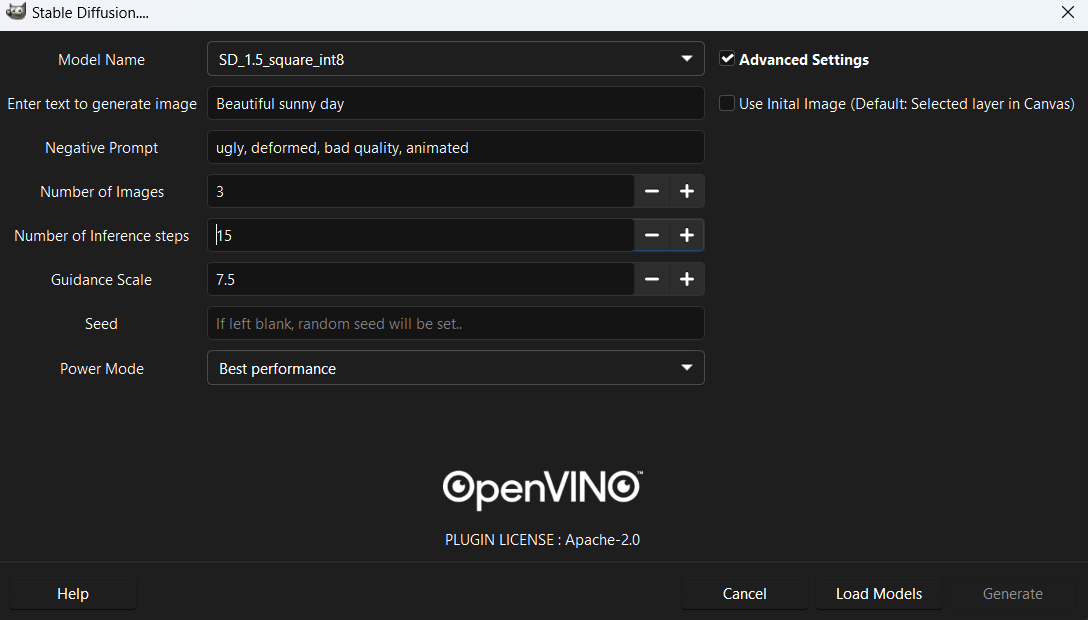
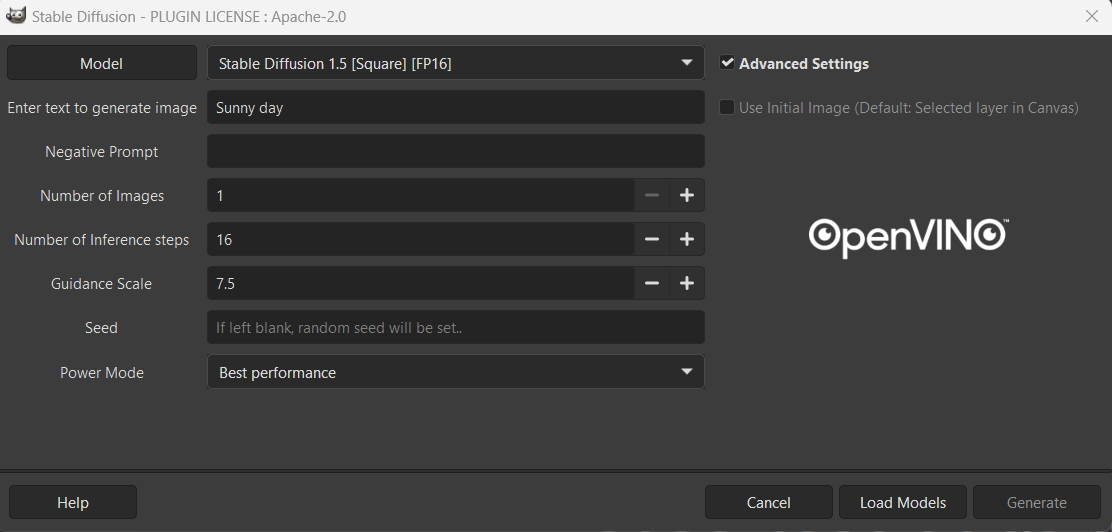
Updated the readme and windows doc

diff --git a/Docs/user_guide_for_windows_users.md b/Docs/user_guide_for_windows_users.md
@@ -118,19 +118,7 @@ Please download [gimp-2.99.16-setup.exe](https://download.gimp.org/gimp/v2.99/wi
 
     This step will take time for downloading necessary packages.
 
-
-- After creating python environment, gimpenv3, and downloaded necessary packages, you will be prompted to download models 
-- Enter __\<number\>__ for downloading models you want to run. You can specify multiple models separated by spaces:
-
-    ![](figs/model_downloding_SD1.5.png)
-
- - Download "__1__", SD-1.5 Square (512x512) as an instance. Once installation process is completed when you see the messages below.
-
-    ![](figs/download_SD1.5.png)
-
-    >**Notes:**
-    > - The downloaded models include FP16 and INT8 precision, and INT8 precision can be executed on MTL NPU.
-    > - Weights is saved at `C:\Users\<user_name>\openvino-ai-plugins-gimp\weights`.
+- After creating python environment, gimpenv3, and downloaded necessary packages, you can now start GIMP application from Start Menu. 
 
 # Execute Stable-Diffusion in GIMP
 
@@ -142,18 +130,32 @@ With previous section, the GIMP AI plugins with OpenVINO™ Backend is installed
 
 You can now simply open Gimp from the start menu as you would any normal Windows application.
 
-## Execute Stable-Diffusion – SD1.5_square_int8
+## Download & Install Stable Diffusion Model
+- Once GIMP application is started, Click "__Layer__" \> "__OpenVINO-AI-Plugins__" \> "__Stable diffusion__".
+- Once Stable Diffusion Plugin UI opens up, click on Model Button on the top left corner as show in the below picture:
+    ![](figs/stable-diffusion_model1.png)
+- This now opens the Stable Diffusion Model Management window from where you can install the required models by clicking on "Install" button next to the model name. 
+    ![](figs/stable-diffusion_model2.png)  
 
-Please follow below steps to execute Stable-Diffusion - SD1.5_square_int8. For other features, please refer to [OpenVINO™ Image Generator Plugin with Stable Diffusion](https://github.com/intel/openvino-ai-plugins-gimp/tree/main?tab=readme-ov-file#openvino-image-generator-plugin-with-stable-diffusion) section.
+ - Download "__1__", Stable Diffusion 1.5 Square as an instance. 
+    ![](figs/stable-diffusion_model3.png)
+ 
+ - Once installation process is completed, you will see the "Install" button is updated to "Installed" and you will find the models in the drop 
+    ![](figs/stable-diffusion_model4.png)
+    
+    >**Notes:**
+    > - The downloaded models include FP16 and INT8 precision
+    > - Weights is saved at `C:\Users\<user_name>\openvino-ai-plugins-gimp\weights`.
+
+
+
+## Execute Stable-Diffusion – Stable Diffusion 1.5 INT8
+
+Please follow below steps to execute Stable-Diffusion - Stable Diffusion 1.5 INT8. For other features, please refer to [OpenVINO™ Image Generator Plugin with Stable Diffusion](https://github.com/intel/openvino-ai-plugins-gimp/tree/main?tab=readme-ov-file#openvino-image-generator-plugin-with-stable-diffusion) section.
 
 - Following previous section to launch GIMP
 
     ![](figs/gimp_launch.png)
-
-- Click "__File__" \> "__New__" \> "__OK__" to new a layer in GIMP
-
-    ![](figs/gimp_create_image.png)
-    ![](figs/gimp_ok.png)
 
 - Click "__Layer__" \> "__OpenVINO-AI-Plugins__" \> "__Stable diffusion__".
 

diff --git a/README.md b/README.md
@@ -30,11 +30,10 @@ For detailed steps and tips please refer to [Linux Installation Guide](./Docs/li
 # OpenVINO™ Image Generator Plugin with Stable Diffusion
 #### Power Mode is enabled for int8 SD models and systems that has a "NPU" only 
 #### A. Prompt to Image
-1. Create or choose a layer
+1. You can start with a blank canvas or create/choose a layer
 2. Select Stable Diffusion from the drop down list in layers -> OpenVINO-AI-Plugins
-3. Choose the desired model and device from the drop down list.
-   - note that the [Latent Consistency Model](https://huggingface.co/SimianLuo/LCM_Dreamshaper_v7) is now supported. Choose `sd_1.5_square_lcm`
-4. Click on "Load Models" to compile & load the model on the selected device. Wait for it to complete. Please note that you need to perform this step only if you change the model or device or both. For any subsequent runs just click "Run Inference"
+3. Choose the desired Model and Power Mode from the drop down list.
+4. Click on "Load Models" to compile & load the model on the device. Wait for it to complete. Please note that you need to perform this step only if you change the model or device or both. For any subsequent runs just click "Run Inference"
 5. Enter prompt and other parameters
 6. Click on “Generate”. Wait for the total inference steps to get completed.
 
@@ -81,13 +80,7 @@ For detailed steps and tips please refer to [Linux Installation Guide](./Docs/li
 6. Click on “Generate”. Wait for the total inference steps to get completed.
 
 
-![](gifs/stable-diffusion.png)
-
-_With Advanced Setting_
-
-![](gifs/stable-diffusion1.png)
-
-_With Power Mode in Advanced Setting for SD int8 based models_
+_With Advanced Setting and Power Mode_
 
 ![](gifs/stable-diffusion2.png)
 
